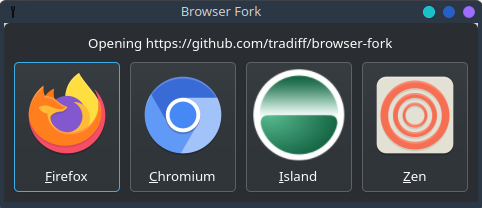
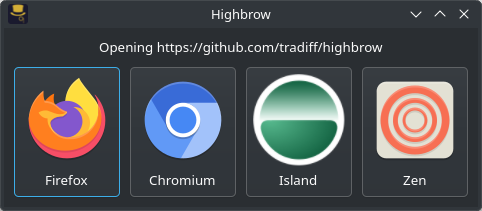
rpm packaging

diff --git a/src/setup_ui.rs b/src/setup_ui.rs
@@ -3,7 +3,7 @@ use gtk4::{
     Align, Application, ApplicationWindow, Box as GtkBox, Button, ButtonsType, Label,
     MessageDialog, MessageType, Orientation,
 };
-use std::{env, fs, path::PathBuf, process::Command};
+use std::{process::Command};
 
 pub struct SetupUI;
 
@@ -11,9 +11,10 @@ impl SetupUI {
     pub fn show(app: &Application) {
         let window = ApplicationWindow::builder()
             .application(app)
-            .title("Highbrow Setup")
+            .title("Highbrow")
+            .icon_name("highbrow")
             .build();
-
+        
         let vbox = GtkBox::builder()
             .orientation(Orientation::Vertical)
             .spacing(10)
@@ -39,7 +40,6 @@ impl SetupUI {
     }
 
     fn set_as_default_browser() {
-        let _ = Self::create_desktop_file_if_needed();
         let result = Command::new("xdg-settings")
             .args(["set", "default-web-browser", "highbrow.desktop"])
             .status();
@@ -58,94 +58,6 @@ impl SetupUI {
                 MessageType::Error,
                 "Error",
             ),
-        }
-    }
-
-    fn create_desktop_file_if_needed() -> Result<(), ()> {
-        let home = env::var("HOME").map_err(|_| ())?;
-        Self::install_icon_if_needed(&home);
-
-        let desktop_dir = PathBuf::from(&home).join(".local/share/applications");
-        fs::create_dir_all(&desktop_dir).map_err(|_| ())?;
-
-        let desktop_file = desktop_dir.join("highbrow.desktop");
-        if desktop_file.exists() {
-            return Ok(());
-        }
-
-        let exe_cmd = env::current_exe()
-            .ok()
-            .and_then(|p| p.to_str().map(String::from))
-            .unwrap_or_else(|| "highbrow".into());
-        let content = format!("\
-[Desktop Entry]
-Version=1.0
-Name=Highbrow
-GenericName=Web Browser
-Comment=Browse the Web
-Exec={} %u
-Icon=highbrow
-Terminal=false
-Type=Application
-MimeType=text/html;text/xml;application/xhtml+xml;application/vnd.mozilla.xul+xml;text/mml;x-scheme-handler/http;x-scheme-handler/https;
-StartupNotify=true
-Categories=Network;WebBrowser;
-Keywords=web;browser;internet;
-X-Desktop-File-Install-Version=0.27
-", exe_cmd);
-
-        fs::write(&desktop_file, content).map_err(|_| ())?;
-        let _ = Command::new("update-desktop-database")
-            .arg(desktop_dir)
-            .status();
-        Ok(())
-    }
-
-    fn install_icon_if_needed(home: &str) {
-        let target_icon_dir = PathBuf::from(&home).join(".local/share/icons/hicolor/symbolic/apps");
-        let target_icon_file = target_icon_dir.join("highbrow.svg");
-        if target_icon_file.exists() {
-            return;
-        }
-
-        if let Err(e) = fs::create_dir_all(&target_icon_dir) {
-            Self::show_dialog(
-                &format!(
-                    "Could not create icon directory {}: {}",
-                    target_icon_dir.display(),
-                    e
-                ),
-                MessageType::Error,
-                "Error",
-            );
-            return;
-        }
-
-        let exe_dir = match env::current_exe() {
-            Ok(mut path) => {
-                path.pop();
-                path
-            }
-            Err(e) => {
-                Self::show_dialog(
-                    &format!("Error getting executable directory: {}", e),
-                    MessageType::Error,
-                    "Error",
-                );
-                return;
-            }
-        };
-
-        let source_icon_path = exe_dir.join("highbrow.svg");
-        match fs::copy(&source_icon_path, &target_icon_file) {
-            Ok(_) => {}
-            Err(e) => {
-                Self::show_dialog(
-                    &format!("Error copying icon file: {}", e),
-                    MessageType::Error,
-                    "Error",
-                );
-            }
         }
     }
 

diff --git a/src/main.rs b/src/main.rs
@@ -3,13 +3,17 @@ mod launch_with_url;
 mod setup_ui;
 
 use config::load_config;
+use gtk4::gdk::Display;
 use gtk4::Application;
 use gtk4::prelude::*;
+use gtk4::CssProvider;
 use launch_with_url::LaunchWithUrl;
 use setup_ui::SetupUI;
 
 fn main() {
     let config = load_config();
+    gtk4::init().unwrap();
+    setup_css_overrides();
     let app = Application::builder()
         .flags(gtk4::gio::ApplicationFlags::HANDLES_OPEN)
         .build();
@@ -25,4 +29,21 @@ fn main() {
     });
 
     app.run();
+}
+
+fn setup_css_overrides() {
+    let css = "
+    .background {
+        border-top-left-radius: 0px;
+        border-top-right-radius: 0px;
+    }
+    ";
+    let provider = CssProvider::new();
+    provider.load_from_data(css);
+
+    gtk4::style_context_add_provider_for_display(
+        &Display::default().unwrap(),
+        &provider,
+        gtk4::STYLE_PROVIDER_PRIORITY_USER,
+    );
 }

diff --git a/src/launch_with_url.rs b/src/launch_with_url.rs
@@ -48,8 +48,7 @@ impl LaunchWithUrl {
         let window = ApplicationWindow::builder()
             .application(app)
             .title("Highbrow")
-            .resizable(false)
-            .modal(true)
+            .icon_name("highbrow")
             .build();
 
         let vbox = GtkBox::builder()
